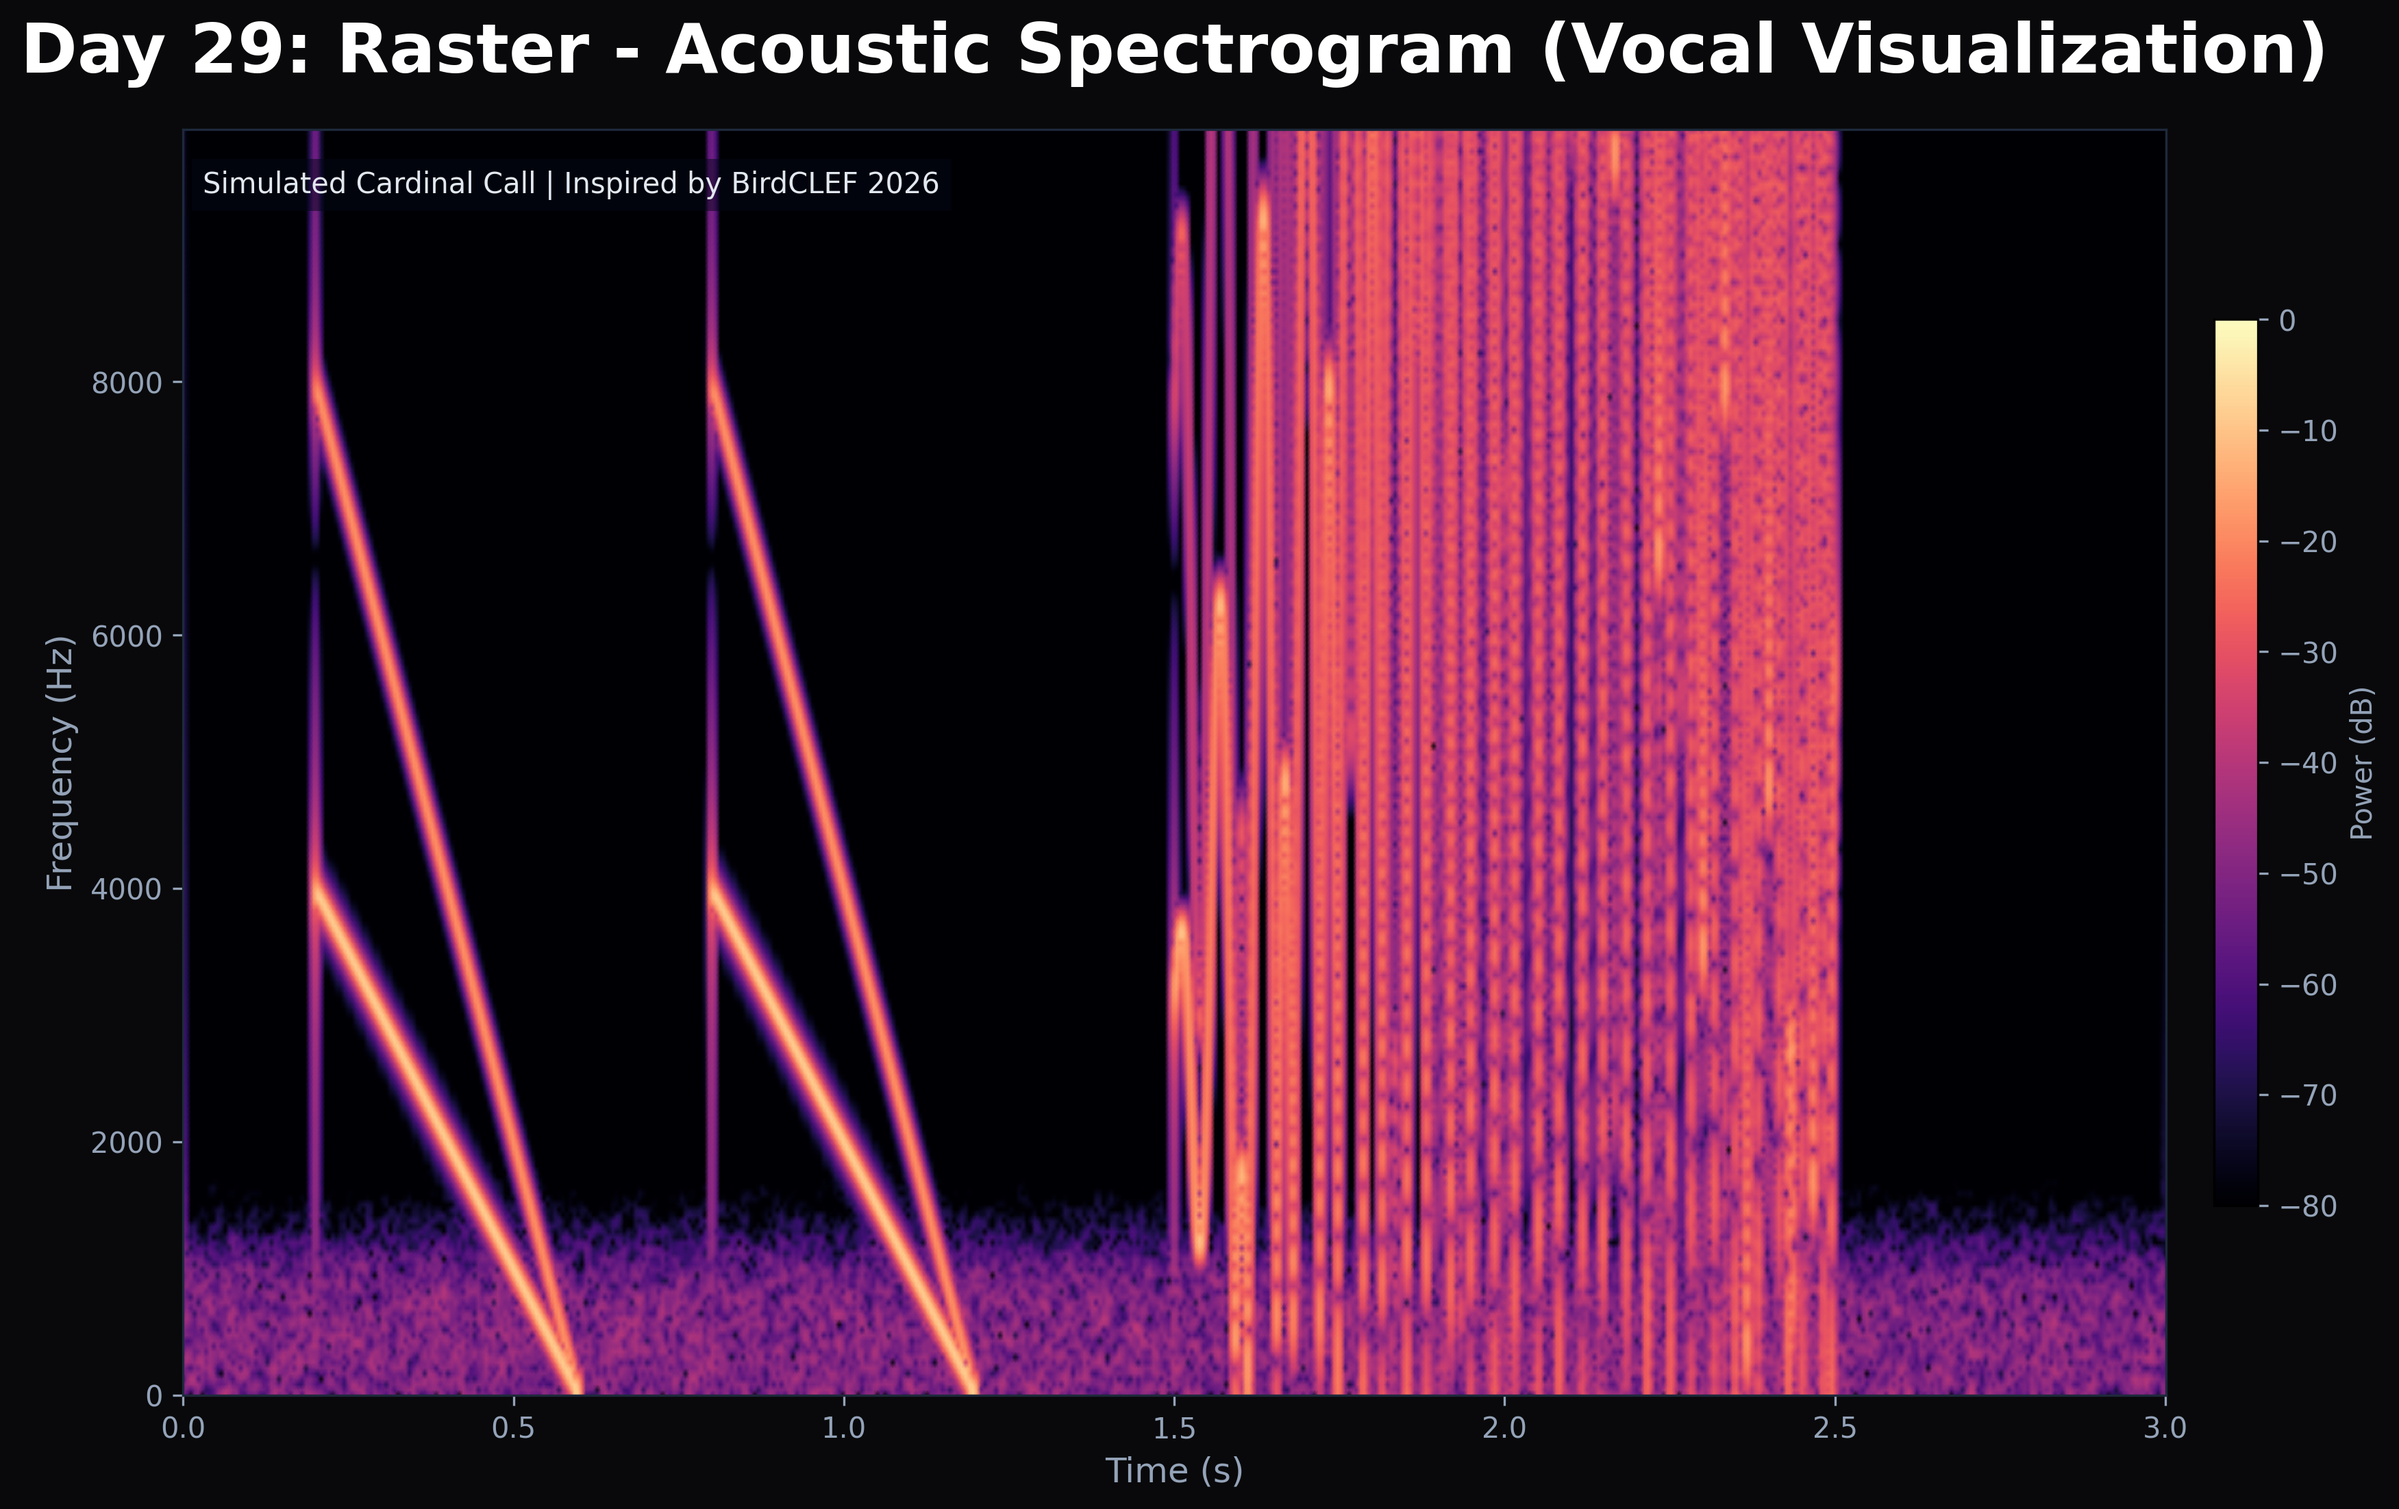
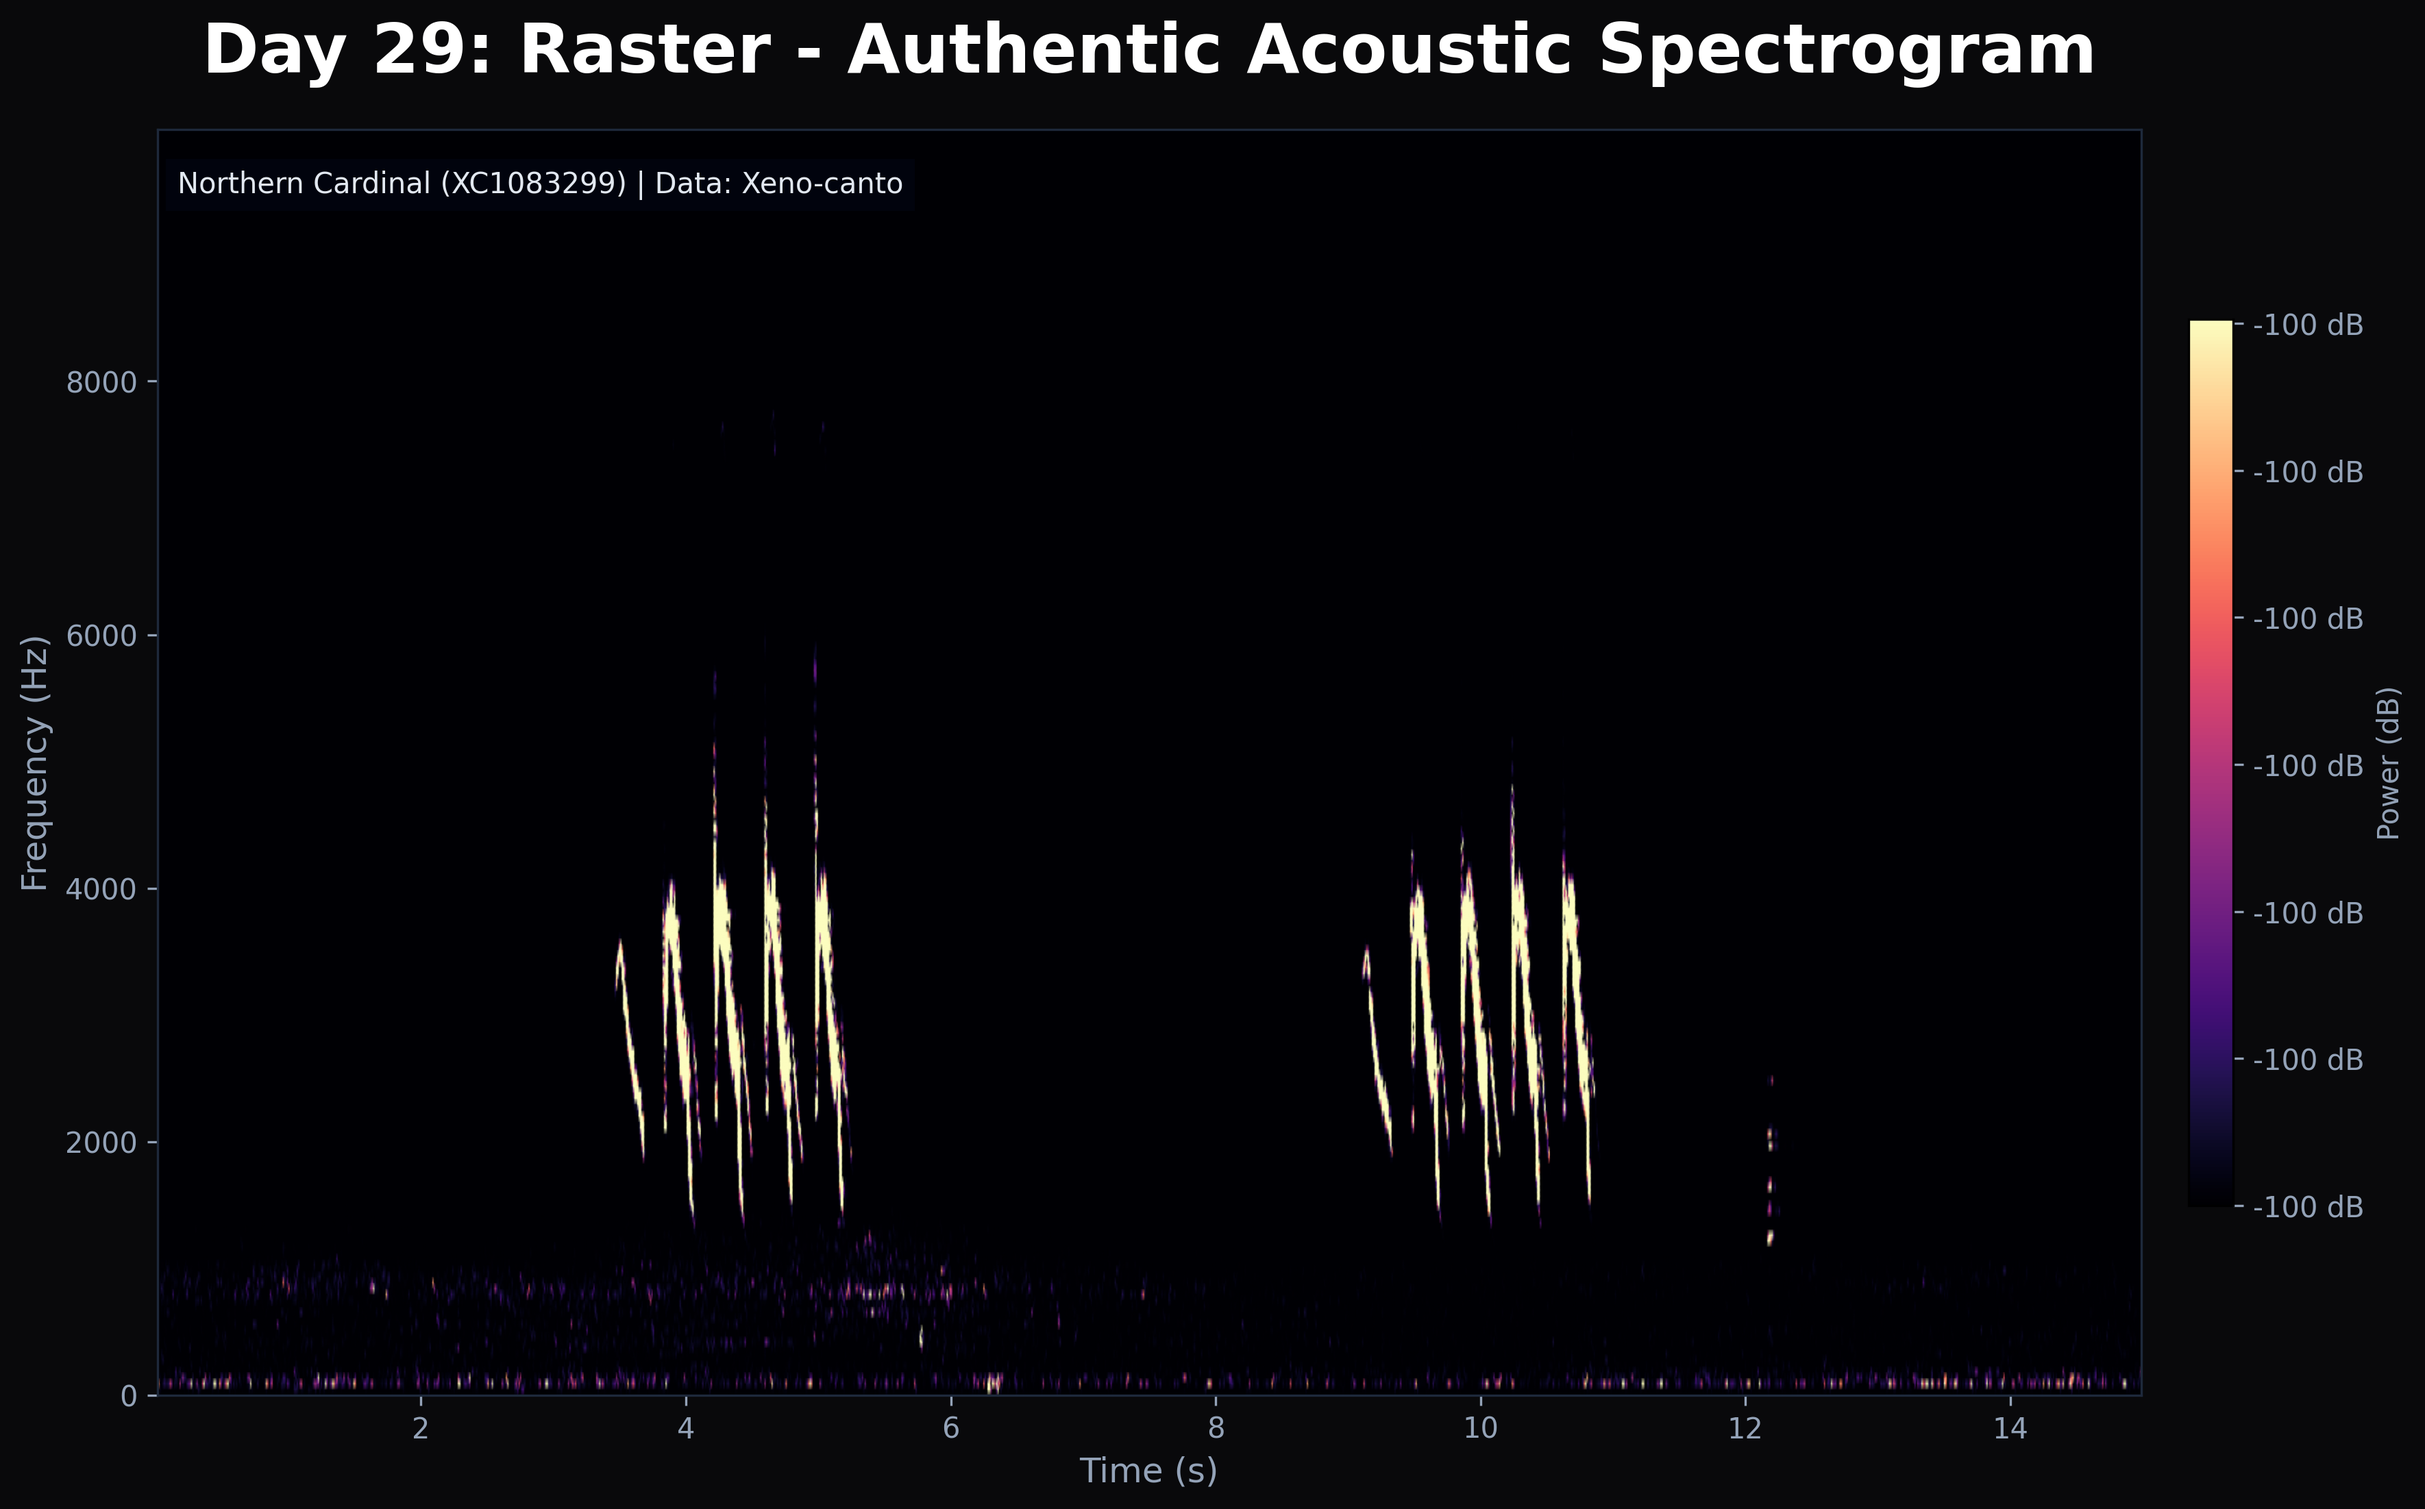
Refine Raven map aesthetics and replace simulated acoustic spectrogram with authentic Xeno-canto data

diff --git a/2025/day_29/code/plot_bird_raster.py b/2025/day_29/code/plot_bird_raster.py
@@ -1,75 +1,60 @@
 import numpy as np
 import matplotlib.pyplot as plt
 from scipy import signal
+import soundfile as sf
 import os
+import requests
 
-def generate_bird_call(duration=3.0, fs=44100):
-    """Synthesize a complex bird call (e.g., Northern Cardinal-like sweeps)."""
-    t = np.linspace(0, duration, int(fs * duration), endpoint=False)
+def download_bird_call():
+    """Download a real bird call from Xeno-canto."""
+    url = "https://xeno-canto.org/1083299/download"
+    filename = "cardinal_call.mp3"
     
-    # Base signal
-    y = np.zeros_like(t)
-    
-    # Note 1: Downward sweep (cheer)
-    t1_mask = (t > 0.2) & (t < 0.6)
-    t1 = t[t1_mask] - 0.2
-    # Freq drops from 4000 to 2000
-    f1 = 4000 - 5000 * t1
-    y[t1_mask] += np.sin(2 * np.pi * f1 * t1)
-    
-    # Note 2: Downward sweep (cheer)
-    t2_mask = (t > 0.8) & (t < 1.2)
-    t2 = t[t2_mask] - 0.8
-    f2 = 4000 - 5000 * t2
-    y[t2_mask] += np.sin(2 * np.pi * f2 * t2)
-    
-    # Note 3: Fast trill
-    t3_mask = (t > 1.5) & (t < 2.5)
-    t3 = t[t3_mask] - 1.5
-    # Freq modulates rapidly around 3000
-    f3 = 3000 + 500 * np.sin(2 * np.pi * 15 * t3)
-    y[t3_mask] += np.sin(2 * np.pi * f3 * t3)
-    
-    # Add some harmonics safely
-    y_harmonic = np.zeros_like(t)
-    y_harmonic[t1_mask] = 0.4 * np.sin(2 * np.pi * (f1 * 2) * t1)
-    y_harmonic[t2_mask] = 0.4 * np.sin(2 * np.pi * (f2 * 2) * t2)
-    y_harmonic[t3_mask] = 0.2 * np.sin(2 * np.pi * (f3 * 2.5) * t3)
-    
-    y += y_harmonic
-    
-    # Add some natural noise (wind, distant sounds)
-    noise = np.random.normal(0, 0.05, len(t))
-    
-    # Filter noise to be mostly low frequency (wind)
-    b, a = signal.butter(4, 1000 / (fs / 2), 'low')
-    wind_noise = signal.filtfilt(b, a, noise) * 2
-    
-    return t, y + wind_noise, fs
+    if not os.path.exists(filename):
+        print(f"Downloading real bird call from {url}...")
+        resp = requests.get(url, stream=True)
+        resp.raise_for_status()
+        with open(filename, 'wb') as f:
+            for chunk in resp.iter_content(chunk_size=8192):
+                f.write(chunk)
+    return filename
 
 def main():
-    print("Generating simulated acoustic data (BirdCLEF style)...")
-    t, audio, fs = generate_bird_call()
+    print("Loading authentic acoustic data...")
+    audio_file = download_bird_call()
     
-    print("Computing Short-Time Fourier Transform (STFT)...")
-    # Compute spectrogram
-    f, t_spec, Zxx = signal.stft(audio, fs, nperseg=1024, noverlap=768)
+    print("Reading audio file...")
+    # Load audio, keeping it simple
+    data, fs = sf.read(audio_file)
+    
+    # Convert to mono if stereo
+    if len(data.shape) > 1:
+        data = data.mean(axis=1)
+        
+    # We load only the first 15 seconds to keep the spectrogram detailed
+    duration = 15.0
+    max_samples = int(fs * duration)
+    if len(data) > max_samples:
+        data = data[:max_samples]
+    
+    print("Computing Spectrogram...")
+    f, t_spec, Zxx = signal.spectrogram(data, fs, nperseg=1024, noverlap=512)
     
     # Convert amplitude to Decibels for visualization
-    Zxx_db = 20 * np.log10(np.abs(Zxx) + 1e-10)
+    Zxx_db = 10 * np.log10(np.abs(Zxx)**2 + 1e-10)
     
-    # Filter out very high frequencies we didn't generate just to make it look clean
+    # Filter out very high frequencies to focus on bird song (usually < 10kHz)
     freq_mask = f <= 10000
     f = f[freq_mask]
     Zxx_db = Zxx_db[freq_mask, :]
     
-    print("Plotting acoustic raster (Spectrogram)...")
+    print("Plotting authentic acoustic raster (Spectrogram)...")
     fig, ax = plt.subplots(figsize=(15, 8))
     fig.patch.set_facecolor('#09090b')
     ax.set_facecolor('#09090b')
     
-    # Use a vibrant colormap popular in audio analysis
-    im = ax.pcolormesh(t_spec, f, Zxx_db, vmin=-80, vmax=0, shading='gouraud', cmap='magma')
+    # Plot using pcolormesh
+    im = ax.pcolormesh(t_spec, f, Zxx_db, shading='gouraud', cmap='magma', vmin=np.percentile(Zxx_db, 5), vmax=np.percentile(Zxx_db, 99))
     
     # Style the axes
     ax.set_ylabel('Frequency (Hz)', color='#94a3b8', fontsize=12)
@@ -78,30 +63,20 @@ def main():
     for spine in ax.spines.values():
         spine.set_color('#1e293b')
         
-    ax.set_title("Day 29: Raster - Acoustic Spectrogram (Vocal Visualization)", color='white', fontsize=24, pad=20, fontweight='bold')
+    ax.set_title("Day 29: Raster - Authentic Acoustic Spectrogram", color='white', fontsize=24, pad=20, fontweight='bold')
     
     # Add a colorbar
-    cbar = fig.colorbar(im, ax=ax, shrink=0.7, pad=0.02)
+    cbar = fig.colorbar(im, ax=ax, format='%+2.0f dB', shrink=0.7, pad=0.02)
     cbar.set_label('Power (dB)', color='#94a3b8')
     cbar.ax.yaxis.set_tick_params(color='#94a3b8')
     plt.setp(plt.getp(cbar.ax.axes, 'yticklabels'), color='#94a3b8')
     
-    ax.text(0.01, 0.95, "Simulated Cardinal Call | Inspired by BirdCLEF 2026", 
+    ax.text(0.01, 0.95, "Northern Cardinal (XC1083299) | Data: Xeno-canto", 
             transform=ax.transAxes, ha='left', color='#e2e8f0', fontsize=10, bbox=dict(facecolor='#020617', alpha=0.5, edgecolor='none'))
     
     output_path = os.path.join('2025', 'day_29', 'visualization', 'acoustic_spectrogram.png')
     plt.savefig(output_path, dpi=300, bbox_inches='tight', facecolor='#09090b')
     print(f"Saved to {output_path}")
-    
-    # Update README
-    readme_content = f"""# Day 29: Raster
-Pushing the boundaries of the challenge, this is an **Acoustic Raster**—a spectrogram visualizing the vocalizations of a bird over time. This approach, heavily utilized in machine learning competitions like **BirdCLEF 2026**, represents time on the X-axis, frequency on the Y-axis, and amplitude via color intensity (magma colormap). The signal features simulated frequency sweeps and a rapid trill characteristic of many songbirds, superimposed over low-frequency background noise.
-
-## Visualization
-![Acoustic Spectrogram](visualization/acoustic_spectrogram.png)
-"""
-    with open(os.path.join('2025', 'day_29', 'README.md'), 'w') as f:
-        f.write(readme_content)
 
 if __name__ == "__main__":
     main()

diff --git a/2025/day_28/code/plot_raven_black.py b/2025/day_28/code/plot_raven_black.py
@@ -36,11 +36,17 @@ def main():
     
     # Plot SF boundary in very dark gray
     city = ox.geocode_to_gdf("San Francisco, California, USA")
-    city.plot(ax=ax, color='#0a0a0a', edgecolor='#1a1a1a', linewidth=1)
+    city.plot(ax=ax, color='#080808', edgecolor='#1a1a1a', linewidth=1)
     
-    # Plot Raven sightings in dark charcoal with a tiny white center
-    ax.scatter(gdf.geometry.x, gdf.geometry.y, color='#171717', s=100, alpha=0.9, edgecolor='#262626', linewidth=0.5)
-    ax.scatter(gdf.geometry.x, gdf.geometry.y, color='black', s=10, alpha=0.5) # Core of the point
+    # Plot Raven sightings with a sharper, glowing dark aesthetic
+    # Outer glow (deep purple/charcoal)
+    ax.scatter(gdf.geometry.x, gdf.geometry.y, color='#1f1f2e', s=250, alpha=0.4, edgecolor='none')
+    # Inner point (black with a sharp border)
+    ax.scatter(gdf.geometry.x, gdf.geometry.y, color='black', s=40, alpha=0.9, edgecolor='#3b3b4f', linewidth=1.5)
+    
+    # Focus tightly on the SF Peninsula, ignoring the Farallon Islands
+    ax.set_xlim(-122.52, -122.35)
+    ax.set_ylim(37.70, 37.82)
     
     ax.set_axis_off()
     ax.set_title("Day 28: Black - Shadows of the Raven in SF", color='#262626', fontsize=22, pad=20, fontweight='black')
